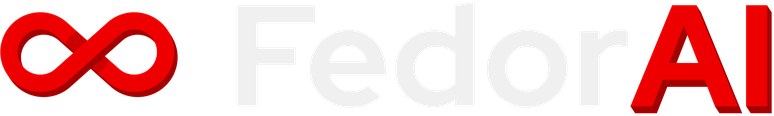
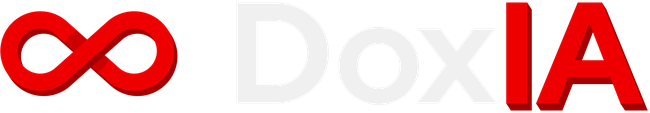
Rename the brand from FedorAI to DoxIA
Login screen, session name, boot splash, terminal greeting, MOTD, About and
screensaver logos, menus and notifications now say DoxIA. update.sh removes
the old fedorai greeting link and plymouth theme.

Changed region(s): [[0.7692, 0.0, 1.0, 0.9823], [0.0, 0.0796, 0.2769, 0.8496]]

diff --git a/default/sddm/omarchy/Main.qml b/default/sddm/omarchy/Main.qml
@@ -1,9 +1,9 @@
 import QtQuick 2.0
 import SddmComponents 2.0
 
-// FedorAI login screen, modeled on the RHEL 8 GDM greeter: black top bar with the
+// DoxIA login screen, modeled on the RHEL 8 GDM greeter: black top bar with the
 // clock and power menu, the user list in the middle, a password step with Cancel /
-// Sign in and a gear for the session, and the ∞ FedorAI brand at the bottom where RHEL
+// Sign in and a gear for the session, and the ∞ DoxIA brand at the bottom where RHEL
 // puts its logo.
 //
 // omarchy-plymouth-set recolors #1a1b26 and #ffffff in this file to the theme's
@@ -500,7 +500,7 @@ Rectangle {
     }
   }
 
-  // Bottom: the ∞ FedorAI brand (fedora/fedorai/make-brand.py), where RHEL 8 shows its logo.
+  // Bottom: the ∞ DoxIA brand (fedora/doxia/make-brand.py), where RHEL 8 shows its logo.
   Image {
     source: "brand.png"
     height: 50

diff --git a/shell/plugins/bar/widgets/SystemUpdate.qml b/shell/plugins/bar/widgets/SystemUpdate.qml
@@ -59,7 +59,7 @@ BarWidget {
     text: "\uf021"
     slotSize: Style.bar.statusSlot
     fontSize: Style.font.caption
-    tooltipText: "Atualizações do FedorAI pendentes"
+    tooltipText: "Atualizações do DoxIA pendentes"
     onPressed: root.runUpdate()
   }
 }

diff --git a/fedora/doxia/make-brand.py b/fedora/doxia/make-brand.py
@@ -1,6 +1,6 @@
 #!/usr/bin/env python3
-"""Gera a marca do FedorAI: o ∞ do tema RHEL 8 com "FedorAI" ao lado, em Red Hat Display
-(a fonte da marca do RHEL), "Fedor" em cinza-claro e "AI" em vermelho com a extrusão 3D
+"""Gera a marca do DoxIA: o ∞ do tema RHEL 8 com "DoxIA" ao lado, em Red Hat Display
+(a fonte da marca do RHEL), "Dox" em cinza-claro e "IA" em vermelho com a extrusão 3D
 do ∞ (nos terminais, chapado).
 
 Saídas (rode da raiz do repositório depois de mudar a marca):
@@ -8,8 +8,8 @@ Saídas (rode da raiz do repositório depois de mudar a marca):
   fedora/personal/omarchy/branding/about.txt tela Sobre (fastfetch), igual ao icon.txt
   fedora/personal/omarchy/branding/logo.ansi omarchy-show-logo, em cores 24 bits
   fedora/personal/omarchy/branding/screensaver.txt  versão grande, 12 linhas
-  fedora/fedorai/brand.ansi                  saudação do terminal e /etc/motd, 8 linhas
-  default/plymouth/fedorai/watermark.png     marca no rodapé do boot splash
+  fedora/doxia/brand.ansi                  saudação do terminal e /etc/motd, 8 linhas
+  default/plymouth/doxia/watermark.png     marca no rodapé do boot splash
   default/sddm/omarchy/brand.png             marca no rodapé da tela de login
 
 Precisa do PIL e das fontes redhat-display-fonts.
@@ -50,8 +50,8 @@ def extrude(mask, depth):
 
 
 def brand(height, smooth):
-    """∞ + FedorAI numa tela de `height` px. Devolve (RGBA colorida, máscara do vermelho).
-    Na versão lisa (imagens) o AI ganha a extrusão do ∞; nos blocos do terminal fica chapado."""
+    """∞ + DoxIA numa tela de `height` px. Devolve (RGBA colorida, máscara do vermelho).
+    Na versão lisa (imagens) o IA ganha a extrusão do ∞; nos blocos do terminal fica chapado."""
     if smooth:
         # Desenha 4x maior para a extrusão sair sem serrilhado e reduz no fim.
         big, red = brand_canvas(height * 4, smooth=True)
@@ -62,29 +62,29 @@ def brand(height, smooth):
 
 def brand_canvas(height, smooth):
     font = ImageFont.truetype(FONT, int(height * 1.32))
-    box = font.getbbox("FedorAI")
-    cap = font.getbbox("F")
+    box = font.getbbox("DoxIA")
+    cap = font.getbbox("D")
     inf = infinity(int(height * 0.78))
-    fedor = font.getlength("Fedor")
+    dox = font.getlength("Dox")
     gap = int(height * 0.45)
     x_text = inf.width + gap
     # Mesma proporção do ∞: extrusão de ~42% da espessura do traço, que é ~20% da caixa-alta.
     depth = int((cap[3] - cap[1]) * 0.084) if smooth else 0
-    width = x_text + int(fedor + font.getlength("AI")) + 4 + depth
+    width = x_text + int(dox + font.getlength("IA")) + 4 + depth
     canvas_h = height + depth
     y = -box[1] + (height - (box[3] - box[1])) // 2
 
     img = Image.new("RGBA", (width, canvas_h), (0, 0, 0, 0))
     red = Image.new("L", (width, canvas_h), 0)
-    ImageDraw.Draw(img).text((x_text, y), "Fedor", font=font, fill=LIGHT + (255,))
-    ai = Image.new("L", (width, canvas_h), 0)
-    ImageDraw.Draw(ai).text((x_text + fedor, y), "AI", font=font, fill=255)
+    ImageDraw.Draw(img).text((x_text, y), "Dox", font=font, fill=LIGHT + (255,))
+    ia = Image.new("L", (width, canvas_h), 0)
+    ImageDraw.Draw(ia).text((x_text + dox, y), "IA", font=font, fill=255)
     if depth:
-        side = extrude(ai, depth)
+        side = extrude(ia, depth)
         img.paste(SIDE + (255,), (0, 0), side)
         red = ImageChops.lighter(red, side)
-    img.paste(RED + (255,), (0, 0), ai)
-    red = ImageChops.lighter(red, ai)
+    img.paste(RED + (255,), (0, 0), ia)
+    red = ImageChops.lighter(red, ia)
 
     inf_y = (height - inf.height) // 2
     if smooth:
@@ -143,7 +143,7 @@ def main():
     ansi_light, ansi_red = "\x1b[1;38;2;240;240;240m", "\x1b[1;38;2;238;0;0m"
     write("fedora/personal/omarchy/branding/logo.ansi", render(medium, ansi_light, ansi_red, "\x1b[0m"))
     write("fedora/personal/omarchy/branding/screensaver.txt", render(blocks(12), "", ""))
-    write("fedora/fedorai/brand.ansi", render(blocks(8), ansi_light, ansi_red, "\x1b[0m"))
+    write("fedora/doxia/brand.ansi", render(blocks(8), ansi_light, ansi_red, "\x1b[0m"))
 
     # Boot splash: a altura (43 px) e o arranjo ícone + nome da marca do Fedora, com a
     # marca ocupando ~3/4 da altura como lá.
@@ -151,8 +151,8 @@ def main():
     watermark = watermark.crop(watermark.getbbox())
     canvas = Image.new("RGBA", (watermark.width, 43), (0, 0, 0, 0))
     canvas.alpha_composite(watermark, (0, (43 - watermark.height) // 2))
-    canvas.save(ROOT / "default/plymouth/fedorai/watermark.png", optimize=True)
-    print("wrote default/plymouth/fedorai/watermark.png")
+    canvas.save(ROOT / "default/plymouth/doxia/watermark.png", optimize=True)
+    print("wrote default/plymouth/doxia/watermark.png")
 
     login, _ = brand(110, smooth=True)
     login.crop(login.getbbox()).save(ROOT / "default/sddm/omarchy/brand.png", optimize=True)

diff --git a/README.md b/README.md
@@ -1,10 +1,10 @@
-# FedorAI
+# DoxIA
 
-> **FedorAI is an unofficial Fedora port of [Omarchy](https://github.com/basecamp/omarchy)**,
+> **DoxIA is an unofficial Fedora port of [Omarchy](https://github.com/basecamp/omarchy)**,
 > maintained by [@alexandresebrao](https://github.com/alexandresebrao). It is not
 > affiliated with or supported by Basecamp. Report issues here, not upstream.
 
-Omarchy normally ships as an Arch Linux distribution. FedorAI (Fedora + AI, and the
+Omarchy normally ships as an Arch Linux distribution. DoxIA (Dox + IA, and the
 ∞ in the logo is an 8 lying down) runs the Omarchy Hyprland + Quickshell desktop on **Fedora**,
 installed alongside an existing desktop such as KDE Plasma without touching it. The UI
 is translated to **Brazilian Portuguese**.
@@ -20,7 +20,7 @@ Commands, paths and config files keep their Omarchy names (`omarchy-*`,
 - `tuned-ppd` with a small `powerprofilesctl` shim for the power menu
 - Lock screen PAM config adapted to Fedora
 - Menus, panels, notifications and OSD messages in pt-BR
-- FedorAI branding: login session name, login, About and screensaver logos, terminal greeting and MOTD
+- DoxIA branding: login session name, login, About and screensaver logos, terminal greeting and MOTD
 
 ### Install
 
@@ -30,7 +30,7 @@ sudo bash ~/.local/share/omarchy/fedora/install-system.sh
 bash ~/.local/share/omarchy/fedora/install-user.sh
 ```
 
-Then log out and pick **FedorAI (Hyprland uwsm)** on the login screen.
+Then log out and pick **DoxIA (Hyprland uwsm)** on the login screen.
 
 To bring an existing install up to date (git pull, then theme, branding, icon font,
 menu, MOTD and login screen) without touching the top bar layout or its plugins, run
